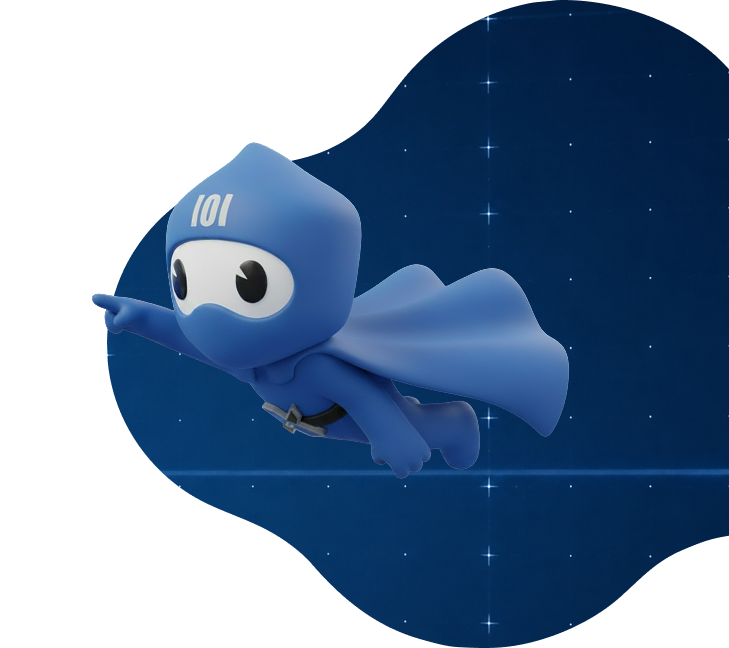
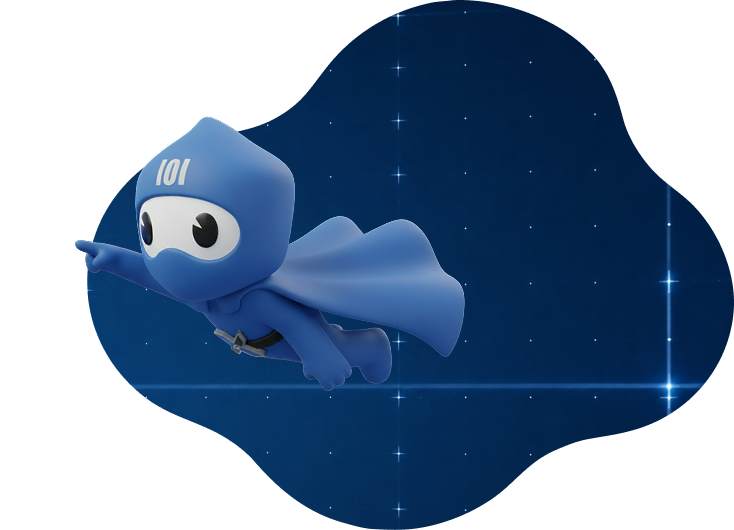
about us

diff --git a/about_us2.html b/about_us2.html
@@ -38,7 +38,7 @@
         <div class="story__grid">
           <!-- Left: Image placeholder -->
           <div class="story__visual">
-            <img src="" />
+            <img src="assets/images/story.png" />
           </div>
 
           <!-- Right: Story card -->